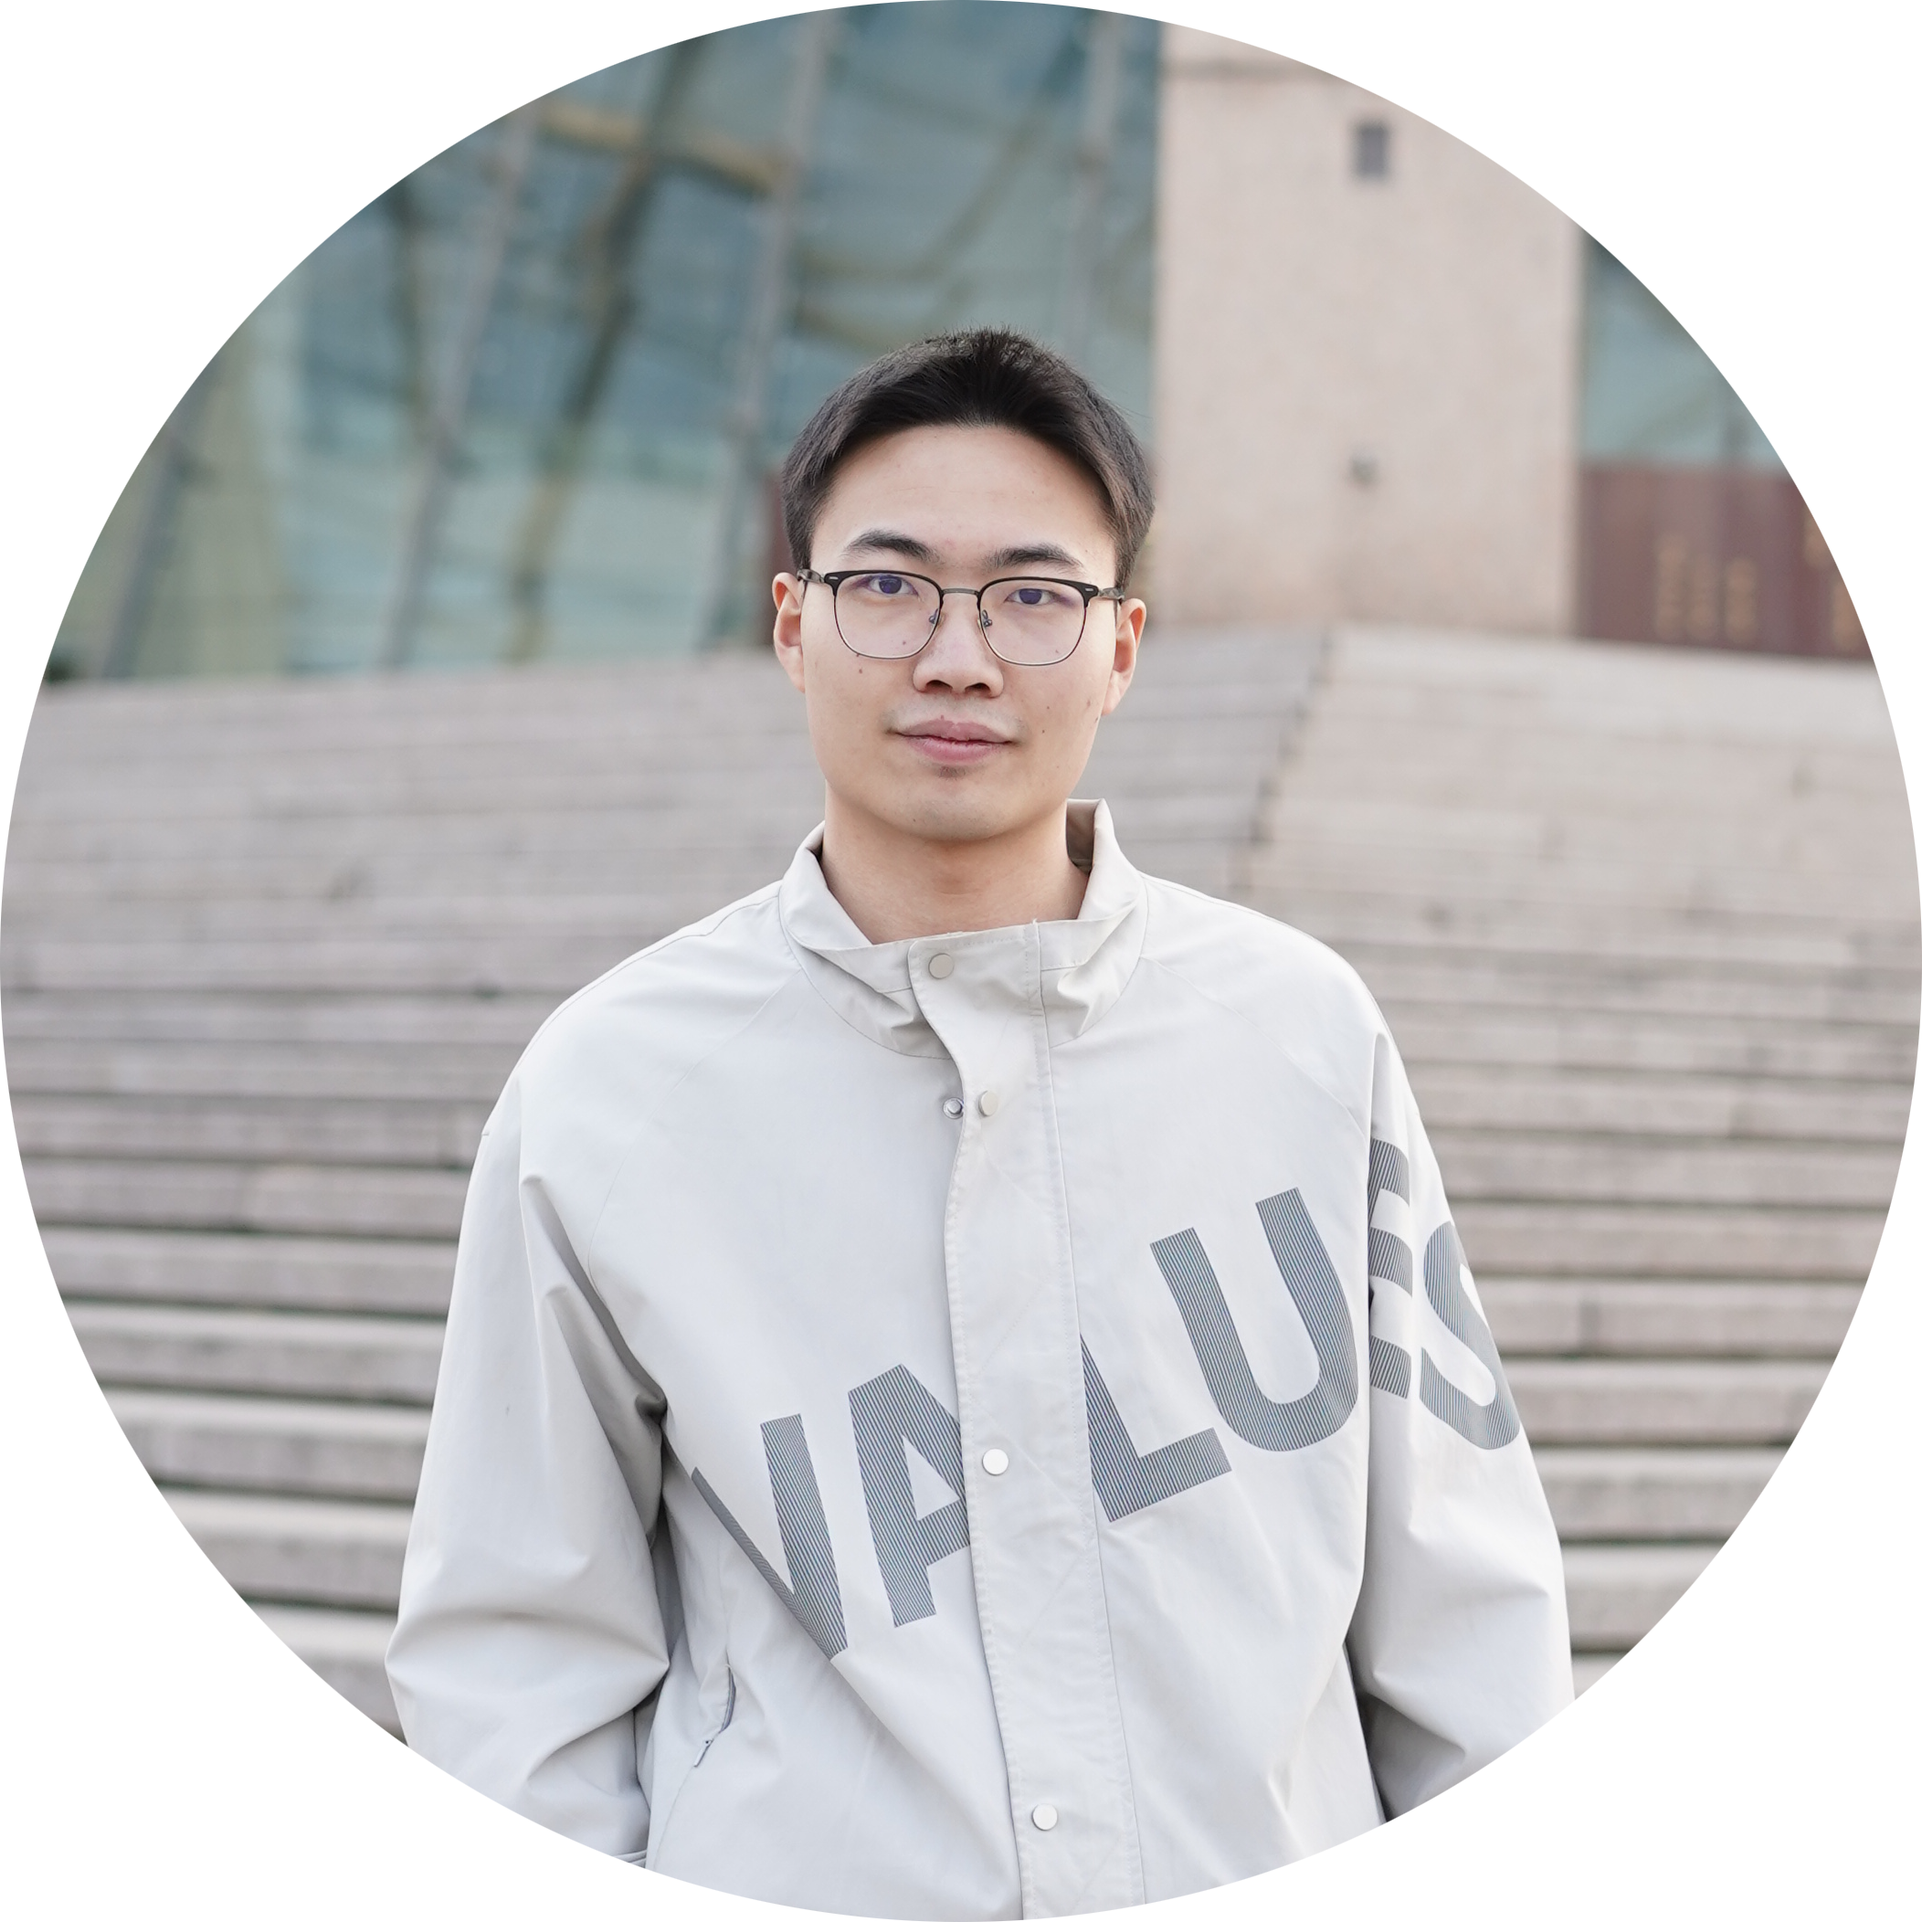
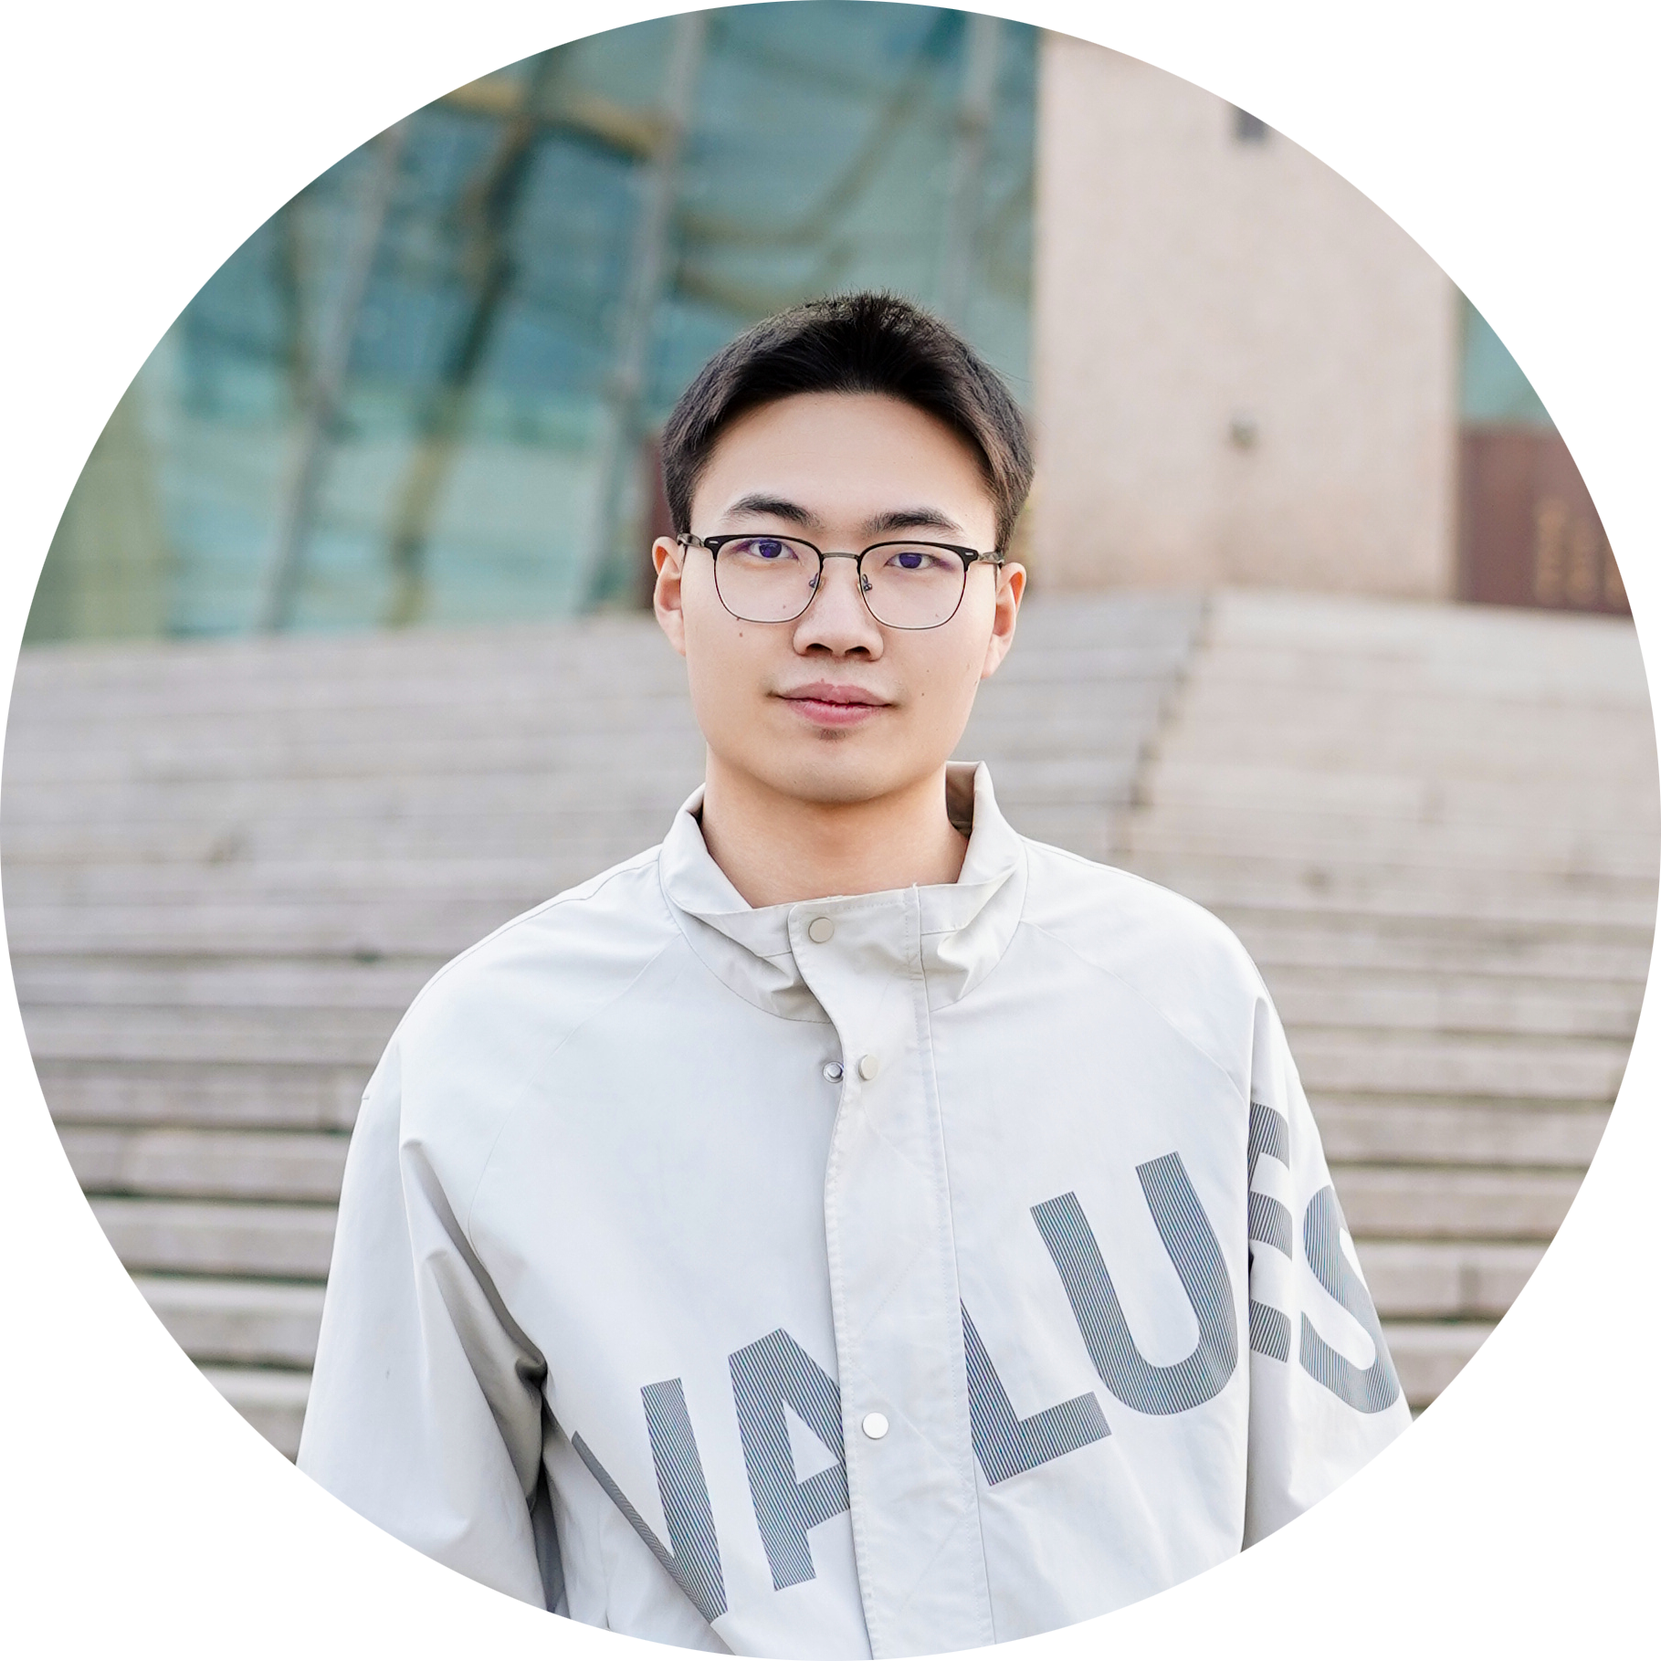
new images

diff --git a/index.html b/index.html
@@ -27,10 +27,10 @@
             // 初始化图片数组
             const images = [
                 'images/profile.png',
-                // 'images/profile1.png',
-                // 'images/profile2.png',
+                'images/profile1.png',
+                'images/profile2.png',
                 // 'images/profile3.png',
-                // 添加更多图片路径按需
+                // 
             ];
     
             // 当前图片索引
@@ -197,7 +197,7 @@
             
                                 </h2>
                                 <p>
-                                    I am now a senior student of Mathematics at Zhejiang University, with a minor in <a href="http://ckc.zju.edu.cn/ckcen/2022/0225/c44633a2500643/page.htm">Entrepreneurship</a>. 
+                                    I am currently an undergraduate student in Mathematics at Zhejiang University, with a minor in  <a href="http://ckc.zju.edu.cn/ckcen/2022/0225/c44633a2500643/page.htm">Entrepreneurship</a>. 
                                     I have been working on explainable machine learning and long-context language model. Beyond that, I am keen to contribute to the following concepts: trustworthiness (e.g., explainability, robustness, safety) and multi-task learners (e.g., large language models, multimodal models). I'm open to collaboration as long as I have the bandwidth.
                                     <!-- I am grateful to receive advice from <a href="http://yangy.org/">Yang Yang</a> and <a href="https://sites.google.com/view/panli-purdue">Pan Li</a>. -->
                                 </p>
